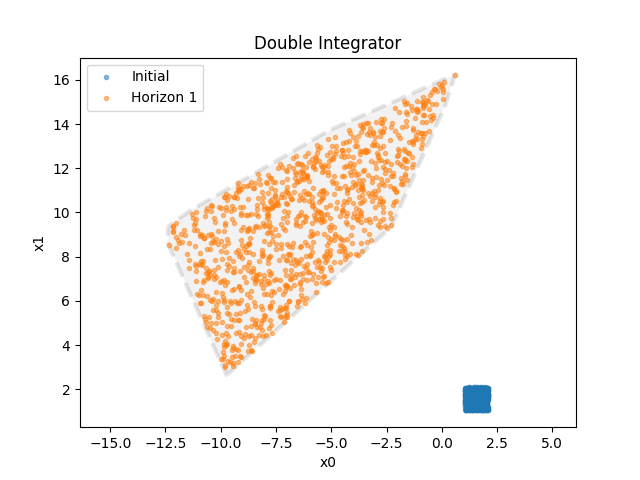
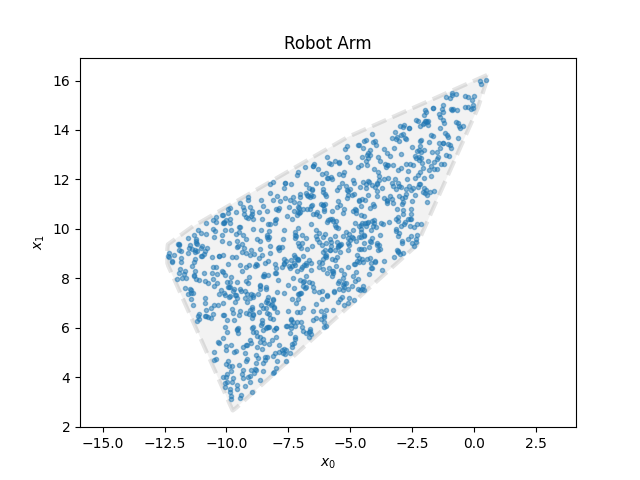
logs commented

diff --git a/run.py b/run.py
@@ -138,7 +138,8 @@ def main():
     if verboseMultiHorizon:
         # fig = plt.figure()
         fig, ax = plt.subplots()
-        plt.scatter(inputData[:, 0], inputData[:, 1], marker='.', label='Initial', alpha=0.5)
+        if fileName != "RobotArmStateDict2-50-2.pth":
+            plt.scatter(inputData[:, 0], inputData[:, 1], marker='.', label='Initial', alpha=0.5)
     plottingData[0] = {"exactSet": inputData}
 
 
@@ -208,7 +209,8 @@ def main():
             if i % 2 == 1 and torch.allclose(pcaDirections[i], -pcaDirections[i - 1]):
                 previousLipschitzCalculations = BB.lowerBoundClass.calculatedLipschitzConstants
             c = pcaDirections[i]
-            print('** Solving Horizon: ', iteration, 'dimension: ', i)
+            if False:
+                print('** Solving Horizon: ', iteration, 'dimension: ', i)
             initialBub = torch.min(imageData @ c)
             BB = BranchAndBound(upperCoordinate, lowerCoordinate, verbose=verbose, verboseEssential=verboseEssential, inputDimension=dim,
                                 eps=eps, network=network, queryCoefficient=c, currDim=i,  device=device, nodeBranchingFactor=2, branchNodeNum=512,
@@ -228,8 +230,9 @@ def main():
             lowerBound, upperBound, space_left = BB.run()
             plottingConstants[i] = -lowerBound
             calculatedLowerBoundsforpcaDirections[i] = lowerBound
-            print(' ')
-            print('Best lower/upper bounds are:', lowerBound, '->' ,upperBound)
+            if False:
+                print(' ')
+                print('Best lower/upper bounds are:', lowerBound, '->' ,upperBound)
 
         if finalHorizon > 1:
             rotation = nn.Linear(dim, dim)
@@ -250,7 +253,6 @@ def main():
         if verboseMultiHorizon:
             AA = -np.array(pcaDirections[indexToStartReadingBoundsForPlotting:])
             AA = AA[:, :2]
-            print(AA)
             bb = []
             for i in range(indexToStartReadingBoundsForPlotting, len(calculatedLowerBoundsforpcaDirections)):
                 bb.append(-calculatedLowerBoundsforpcaDirections[i])
@@ -258,17 +260,18 @@ def main():
             bb = np.array(bb)
             # if dim == 2:
             pltp = polytope.Polytope(AA, bb)
-            print(pltp)
+            # print(pltp)
             # plt.figure()
             ax = pltp.plot(ax, alpha = 0.1, color='grey', edgecolor='black')
             ax.set_xlim([0, 5])
             ax.set_ylim([-4, 5])
 
             plt.axis("equal")
-            leg1 = plt.legend()
-            plt.title("Double Integrator")
-            plt.xlabel('x0')
-            plt.ylabel('x1')
+            if fileName != "RobotArmStateDict2-50-2.pth":
+                leg1 = plt.legend()
+            plt.title("Robot Arm")
+            plt.xlabel('$x_0$')
+            plt.ylabel('$x_1$')
 
     if verboseMultiHorizon:
         if fileName == "doubleIntegrator_reachlp.pth":
@@ -306,7 +309,7 @@ def main():
 
         # plt.gca().add_artist(leg1)
         plt.savefig("reachabilityPics/" + fileName + "Iteration" + str(iteration) + ".png")
-        plt.show()
+        # plt.show()
 
 
     endTime = time.time()

diff --git a/BranchAndBound.py b/BranchAndBound.py
@@ -1,5 +1,3 @@
-# from tabnanny import verbose
-
 import torch
 
 from packages import *
@@ -244,7 +242,8 @@ class BranchAndBound:
                 # print('Best LB', self.bestLowerBound, 'Best UB', self.bestUpperBound)
                 plotter.plotSpace(self.spaceNodes, self.initCoordLow, self.initCoordUp)
                 # print('--------------------')
-        print("Number of created nodes: {}".format(self.numberOfBranches))
+        if False:
+            print("Number of created nodes: {}".format(self.numberOfBranches))
         if self.verbose:
 
             plotter.showAnimation(self.spaceNodes, self.currDim)

diff --git a/Bounding/LipschitzBound.py b/Bounding/LipschitzBound.py
@@ -130,7 +130,8 @@ class LipschitzBounding:
                         self.calculateLipschitzConstantSingleBatchNumpy(newWeights, normToUse=self.normToUse))[-1].to(
                         self.device)
                 lipschitzConstant *= normalizer ** len(newWeights)
-                print(lipschitzConstant)
+                if False:
+                    print(lipschitzConstant)
                 self.calculatedLipschitzConstants.append(lipschitzConstant)
                 self.pauseTime(timer, "lowerBound:lipschitzCalc")
             else:
